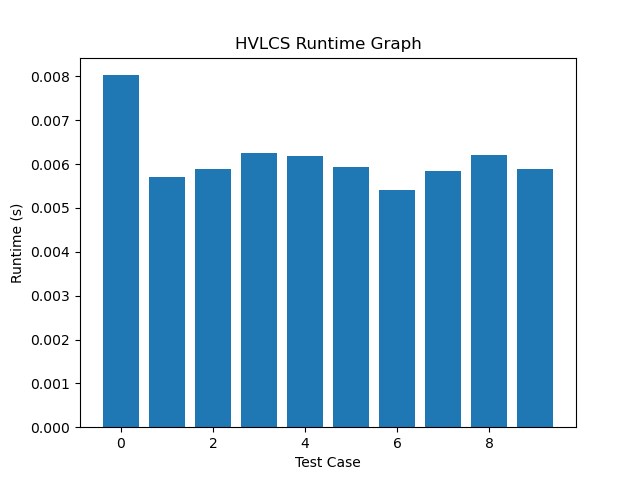
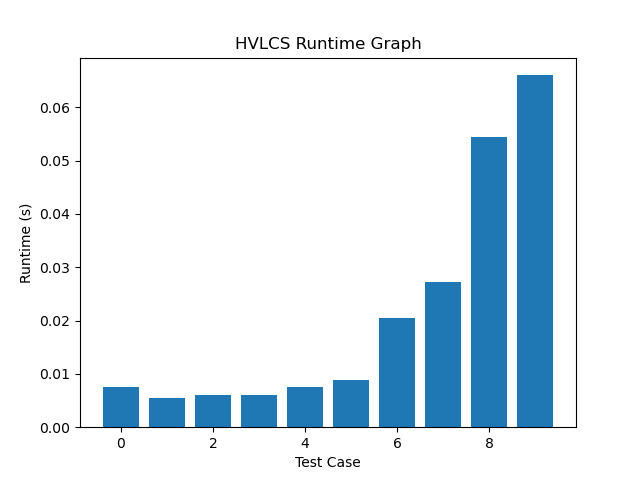
Finished Question 3, ready for submission + made the test cases more fun and updated the graph accordinly

diff --git a/README.md b/README.md
@@ -28,7 +28,7 @@ c 5
 aacb
 caab
 ```
-Where the first line has the number of chars `n`, the next next `n` lines have the char followed by its value. Then the two char sequences of equal length.
+Where the first line has the number of chars `n`, the next next `n` lines have the char followed by its value. Then the two char sequences.
 
 # Written Questions
 
@@ -41,15 +41,44 @@ Where the first line has the number of chars `n`, the next next `n` lines have t
 
 The base cases are `OPT(0, j)` and `OPT(i, 0)` which both trivially equal `0`.
 
-Recurrance cases:
+Recurrence cases:
 There are three possibilities within `OPT(i, j)`.
 1. `A[i]` is not in the optimal subsequence so `OPT(i-1, j)` is the same as `OPT(i, j)`.
 2. `B[j]` is not in the optimal subsequence so similarly, `OPT(i, j-1)` is equal to `OPT(i, j)`
 3. `A[i]` and `B[j]` are in the optimal subsequence, further, that implies that `A[i] == B[j]`.
 
 
-So from that there are two recurrances, if `A[i] != B[j]` Then the case where both are optimial is impossible so you have `OPT(i, j) = max(OPT(i-1, j), OPT(i, j-1))`.
+So from that there are two recurrences, if `A[i] != B[j]` Then the case where both are optimal is impossible so you have `OPT(i, j) = max(OPT(i-1, j), OPT(i, j-1))`.
 If `A[i] == B[j]` then you have 
 `OPT(i, j) = max(OPT(i-1, j), OPT(i, j-1), OPT(i-1, j-1) + v(A[i]))`.
 
-This works because the recurance covers all possibles cases which includes the base cases, so the rest of the table could be filled out form those.
+This works because the recurrence covers all possible cases which includes the base cases, so the rest of the table could be filled out from those.
+
+
+## Question 3
+
+(I like pythonesque pseudocode)
+
+```python
+HVLCS(A, B, v):
+    n = len(A)
+    m = len(B)
+    dp[n][m] init to 0
+    
+    for i = 1 -> n:
+        for j = 1 -> m:
+            if A[i] == B[j]: 
+                dp[i][j] = max(dp[i-1][j], dp[i][j-1], dp[i-1][j-1] + v[A[i]])
+            else:                
+                dp[i][j] = max(dp[i-1][j], dp[i][j-1])
+    return dp[n][m] 
+```
+
+`len(A)` and `len(B)` is $O(1)$ (or inefficiently $O(n)$/$O(m)$ but either way it won't matter given the loop later)
+init `dp` is $O(nm)$ since you access all `nm` values
+The double for loop is $O(nm)$ and then times whatever the inside is which we'll cover now.
+The inside of the double loop has the if statement as $O(1)$ since array access is $O(1)$ and all the subsequent array accesses are also $O(1)$ with `max` also being $O(1)$ given it's a max between at most 3 values.
+
+Therefore the whole double loop is just $O(nm)$ since it's filled with only $O(1)$ operations.
+
+Therefore, the whole function is $O(nm)$.
